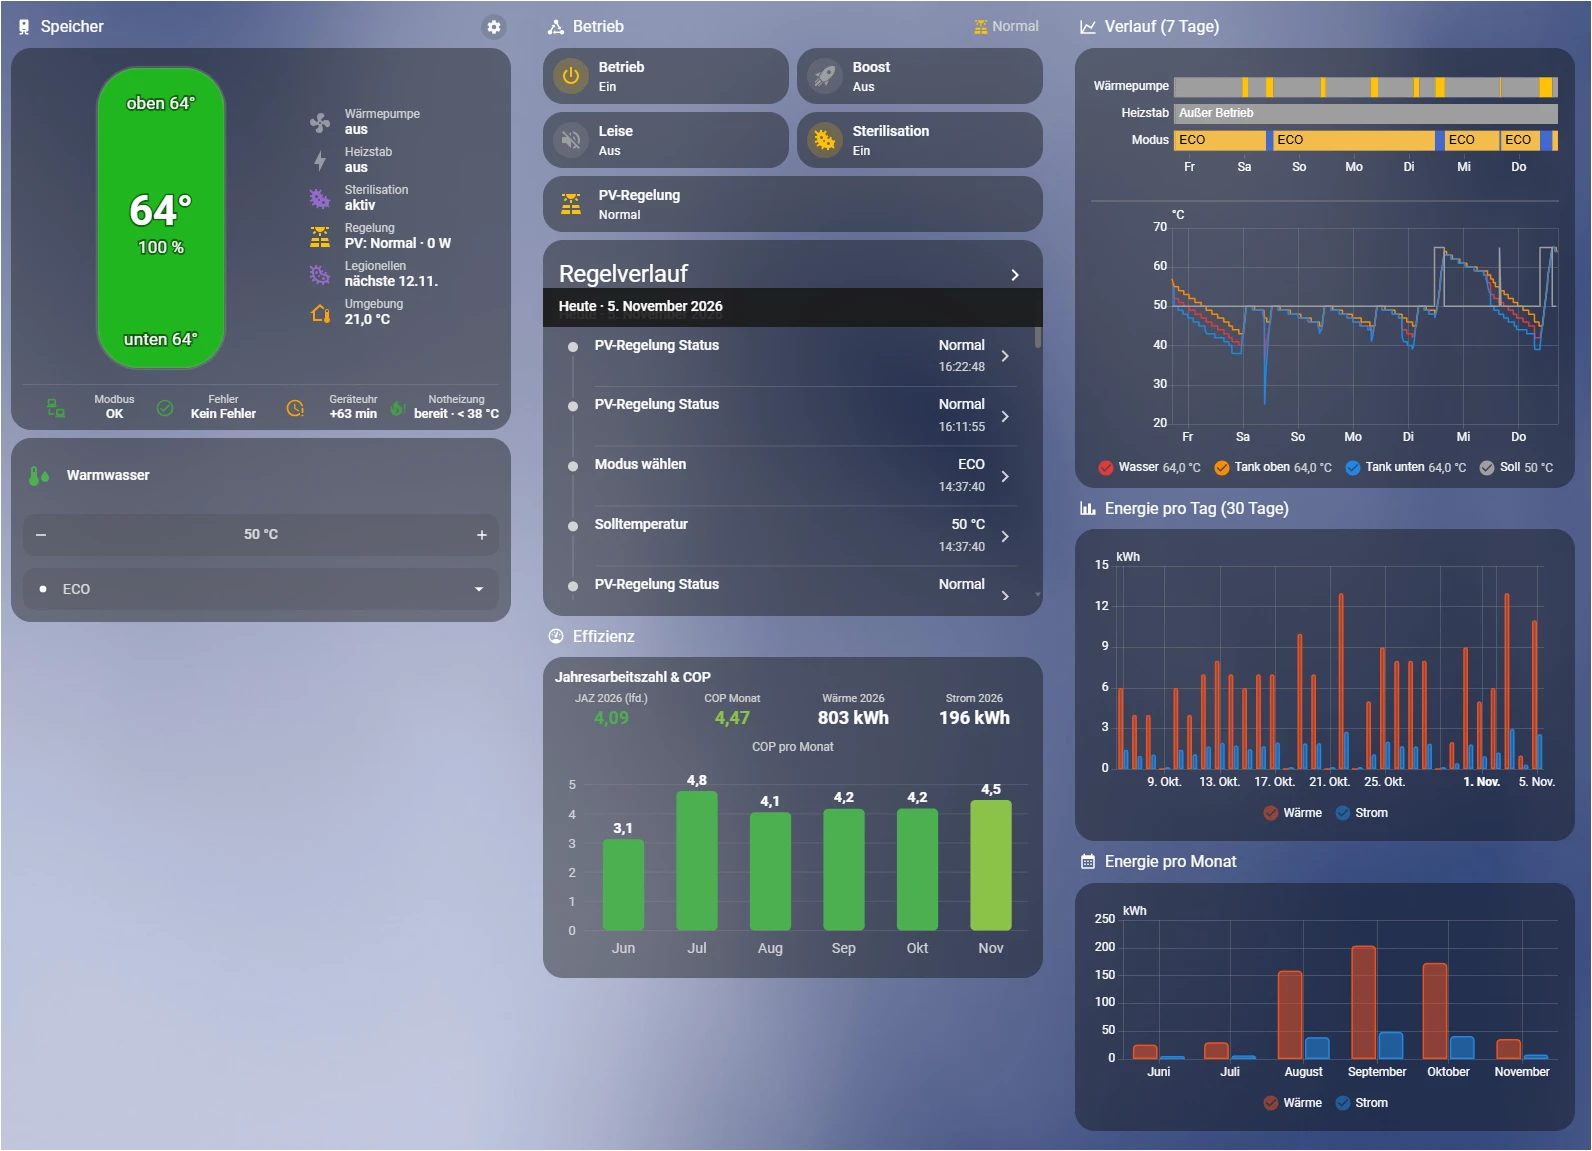
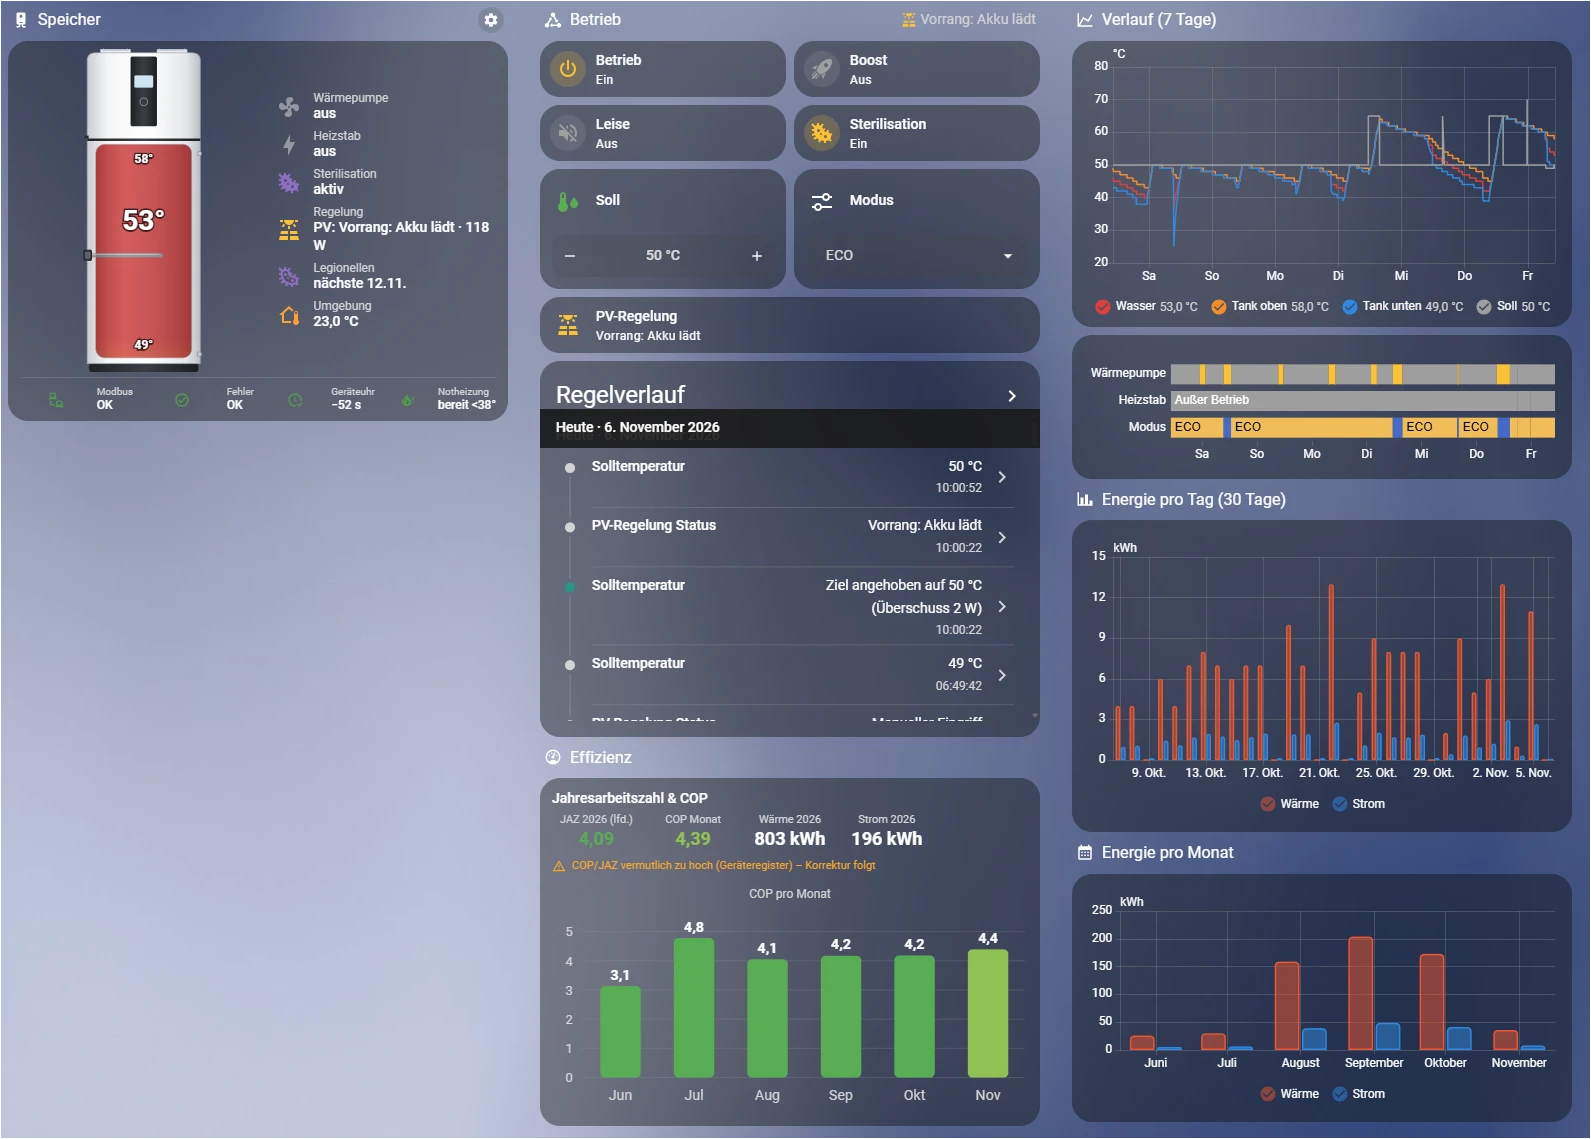
Doku: README-Screenshot des Dashboards aktualisiert (#40)
* Recherche M7-Modelle/Wärmetauscher-Varianten und eigene Geräteabbilder (#29)

Haier-Datenblatt: HP200M7-F9, HP250M7-F9 sowie die Register-Varianten
HP200M7C-F9/HP250M7C-F9. Eigene, maßstäbliche SVG-Abbilder je Modell (mit/ohne
Rohrschlange) plus Generator-Skript; keine Haier-Bilder.

Claude-Session: https://claude.ai/code/session_01RSztCtXB6kJ7HEqJbM4pMG

* 2.1.0: Speicher-Grafik als Geräteabbild je Modell, Wärmetauscher-Rohrschlange, eigenes Bild (#29)

- Eigene schematische M7-Zeichnung in der Bauform des Modells (Maße Haier-Datenblatt)
- Rohrschlange für …M7C-F9-Varianten, leuchtet bei Solar/Kessel (Reg 3 bit2/bit3);
  Option Wärmetauscher Automatisch/Ja/Nein
- Option eigenes Gerätebild (/local/… oder http(s), streng geprüft)
- HP250M7-F9 in der Modellauswahl
- DASHBOARD_LAYOUT_VERSION 3

Claude-Session: https://claude.ai/code/session_01RSztCtXB6kJ7HEqJbM4pMG

* Wärmetauscher-Automatik nach Modell statt Solar-/Kessel-Sensoren; C-Varianten wählbar

Die Solar-/Kessel-Sensoren sind bei Bestandsinstallationen teils aktiv, ohne dass ein
Register verbaut ist (realer Fall: HP200M7-F9). „Automatisch“ richtet sich daher nach
dem Modell; HP200M7C-F9 und HP250M7C-F9 sind neu in der Auswahl.

Claude-Session: https://claude.ai/code/session_01RSztCtXB6kJ7HEqJbM4pMG

* Speicher-Grafik: SVG-IDs je Bauform eindeutig

Mehrere Speicher-Karten auf einer Seite teilten sich sonst Verlauf und Clip-Pfad
(250er-Füllung wurde auf das 200er-Fenster beschnitten, wo IDs nicht je Shadow-Root
[…]

diff --git a/README.md b/README.md
@@ -13,7 +13,7 @@ Vollständig **lokal** über Modbus – kein hOn-Cloud-Konto nötig. Gegenüber 
 Cloud bietet der lokale Weg **Schreibzugriff**, direkten Zugriff auf die
 **Energieregister** und läuft **ohne Internet-/Cloud-Abhängigkeit**.
 
-![Mitgeliefertes Dashboard (Aufnahme aus v2.0.0 – die Speicher-Grafik ist seit v2.1.0 ein Geräteabbild, siehe docs/images/models)](docs/images/dashboard.webp)
+![Mitgeliefertes Dashboard (Aufnahme aus v2.2.0)](docs/images/dashboard.webp)
 
 ---
 
